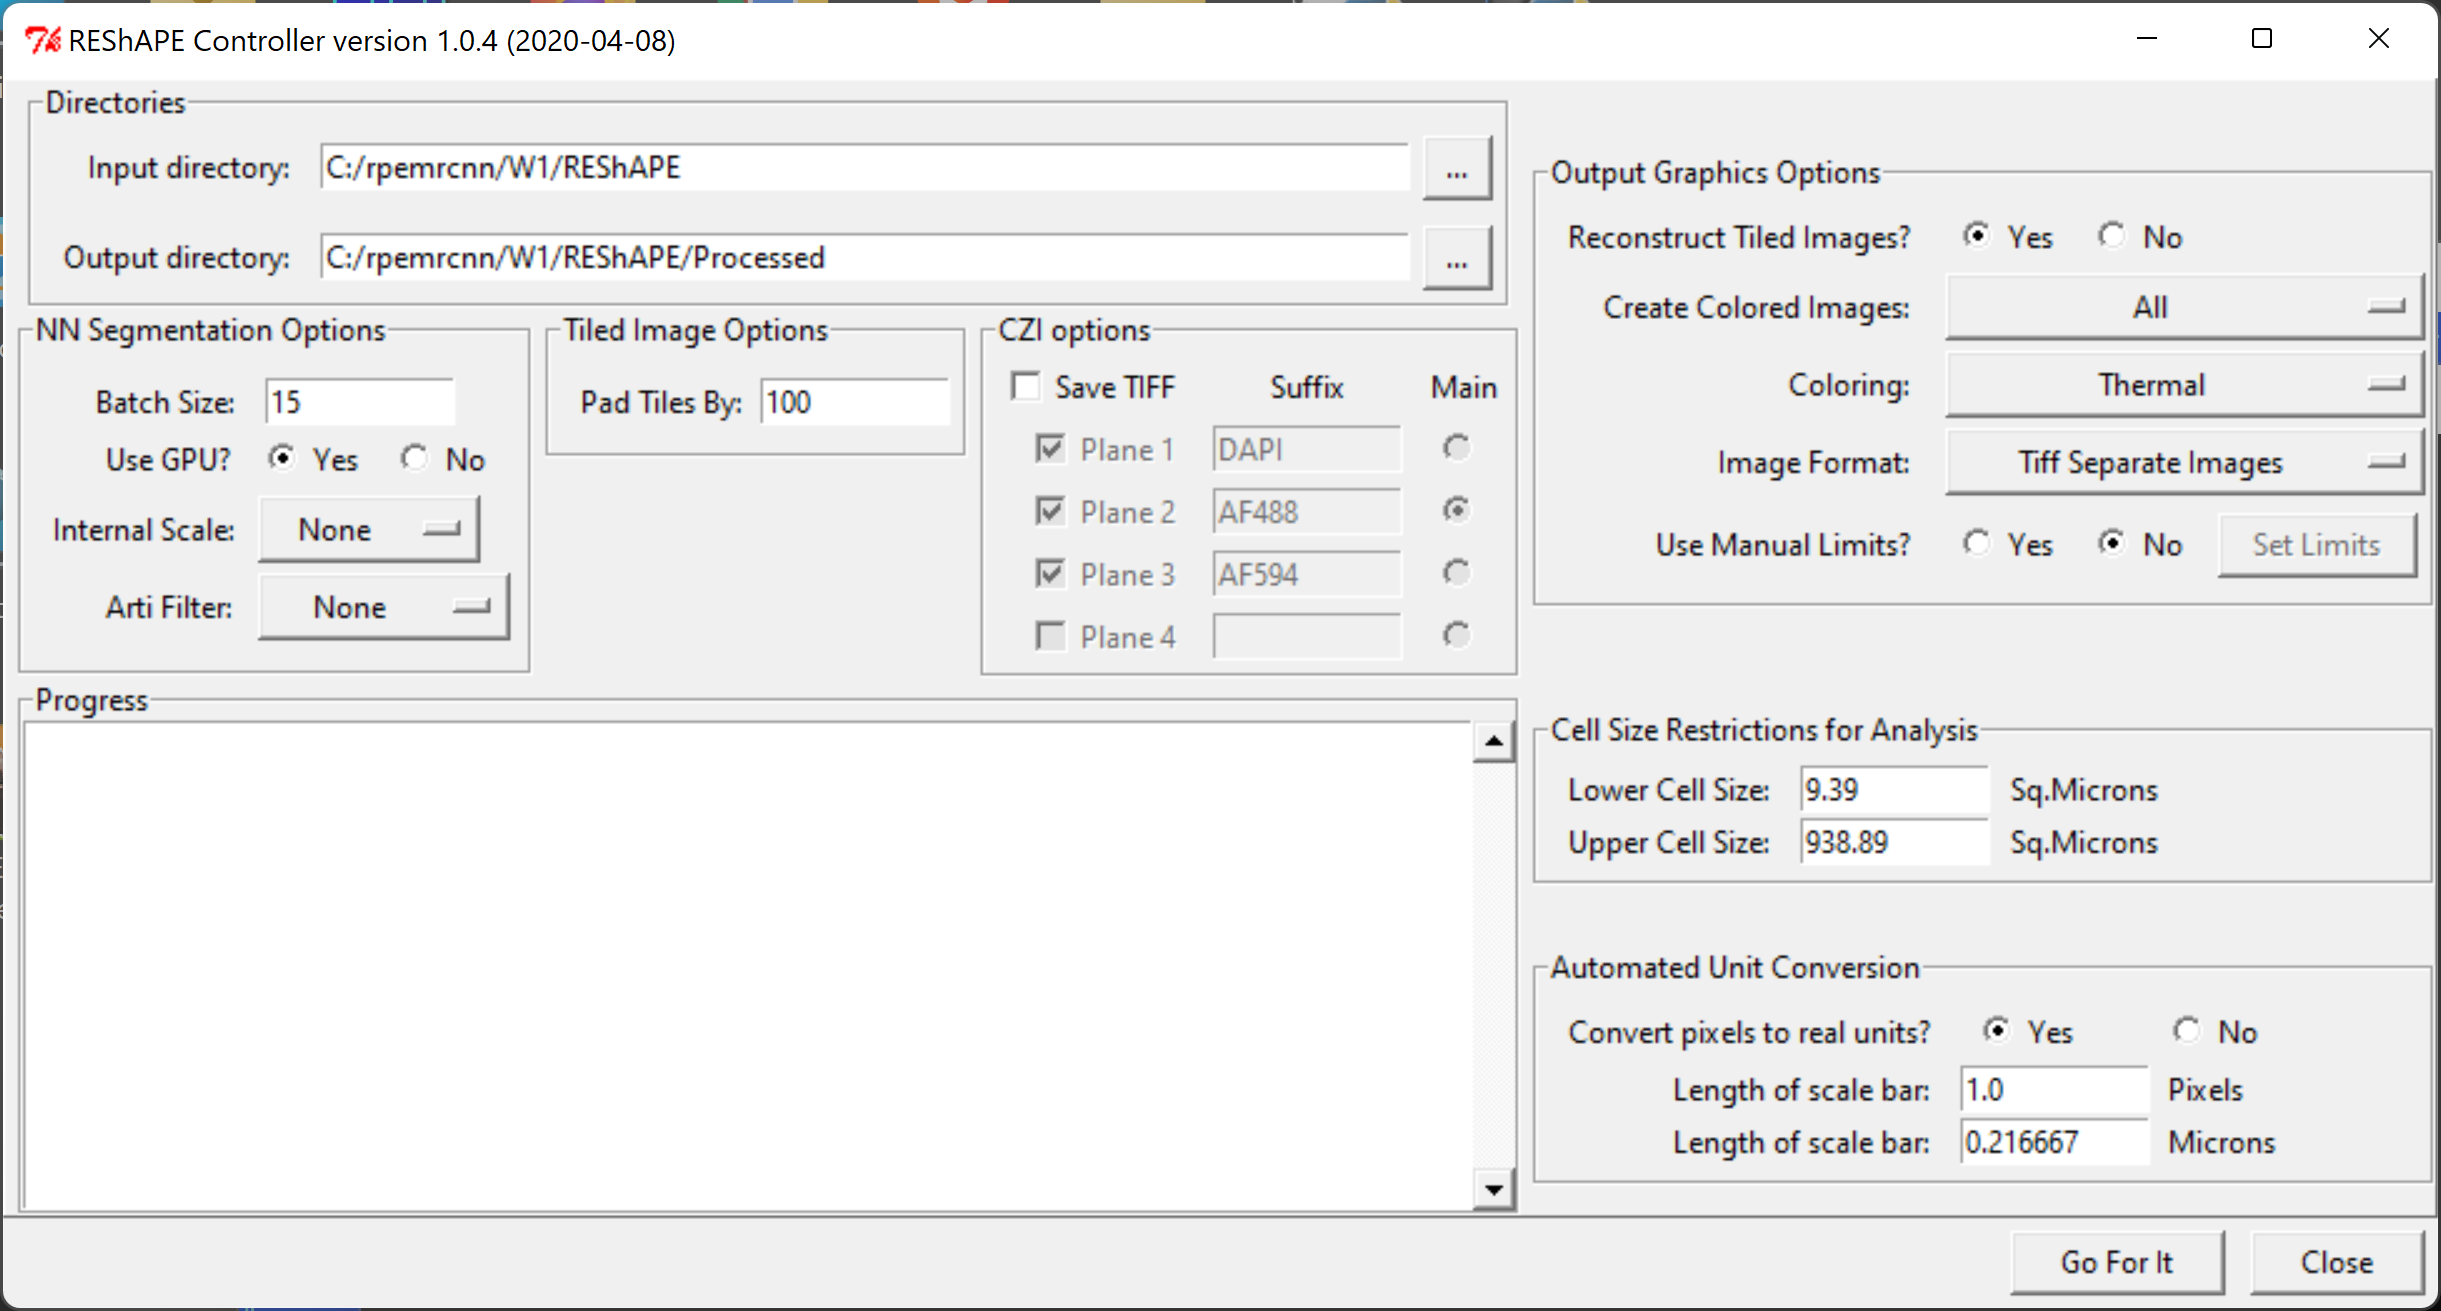
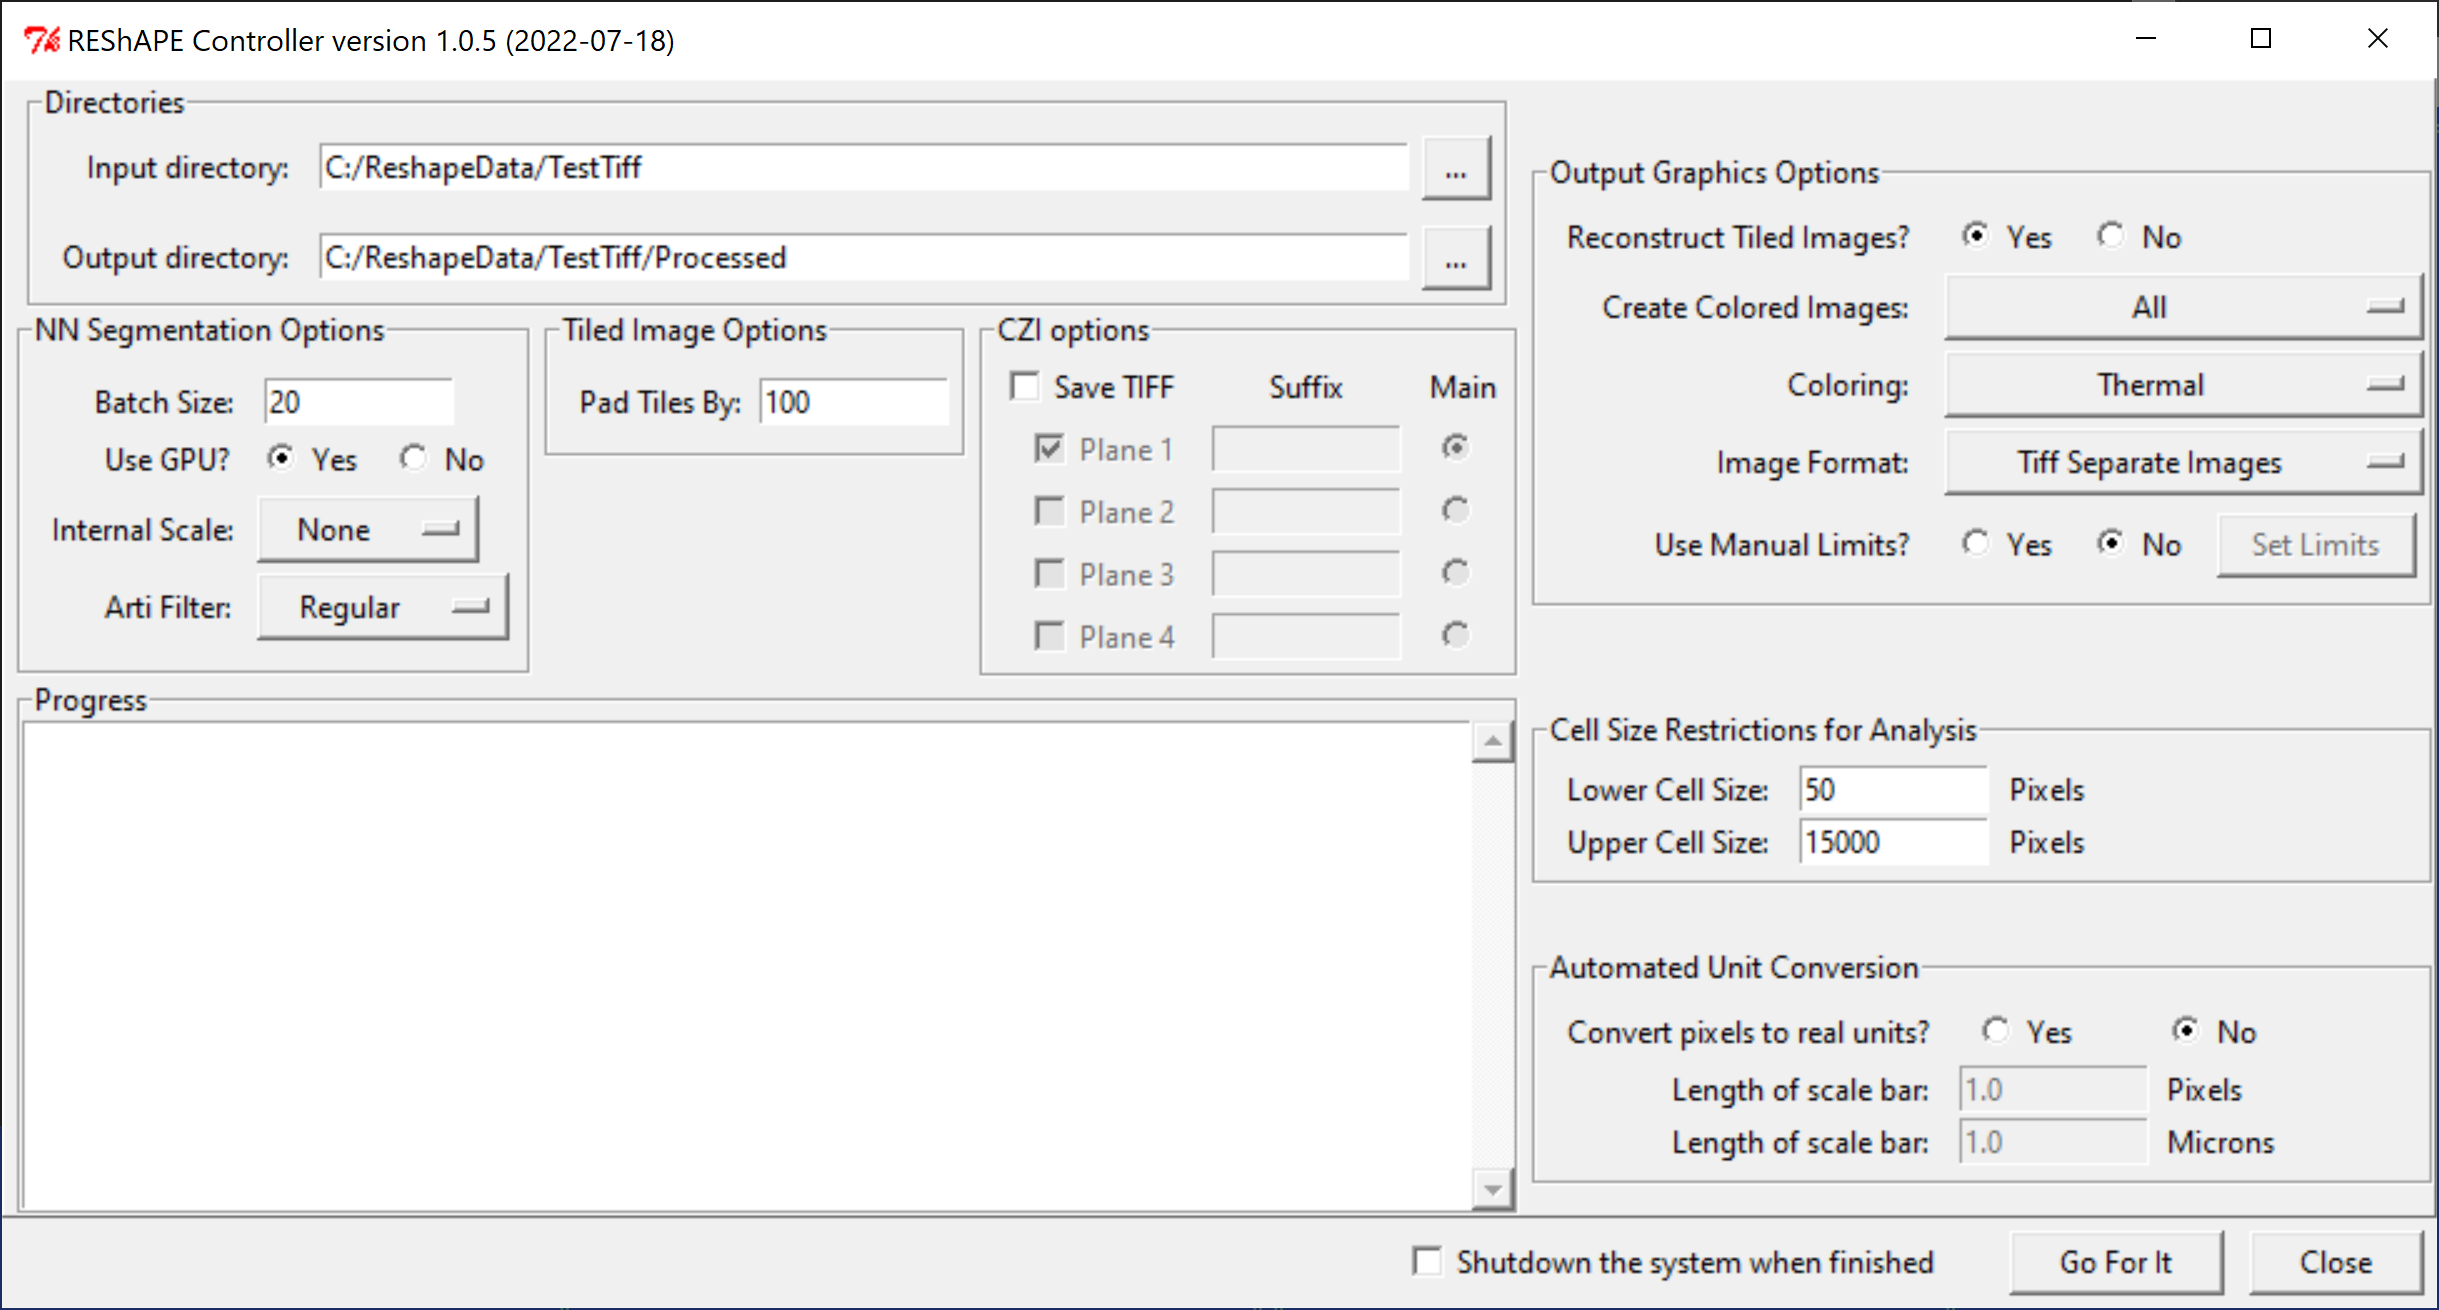
Version 1.0.5 (2022-07-18)

diff --git a/reshape_version.py b/reshape_version.py
@@ -1,7 +1,7 @@
 
 RESHAPE_APP_NAME = 'REShAPE Controller'
-RESHAPE_APP_VERSION = '1.0.4'
-RESHAPE_APP_RELEASE = '2020-04-08'
+RESHAPE_APP_VERSION = '1.0.5'
+RESHAPE_APP_RELEASE = '2022-07-18'
 
 VISUAL_APP_NAME = 'REShAPE Visualization'
 VISUAL_APP_VERSION = '1.0.4'
